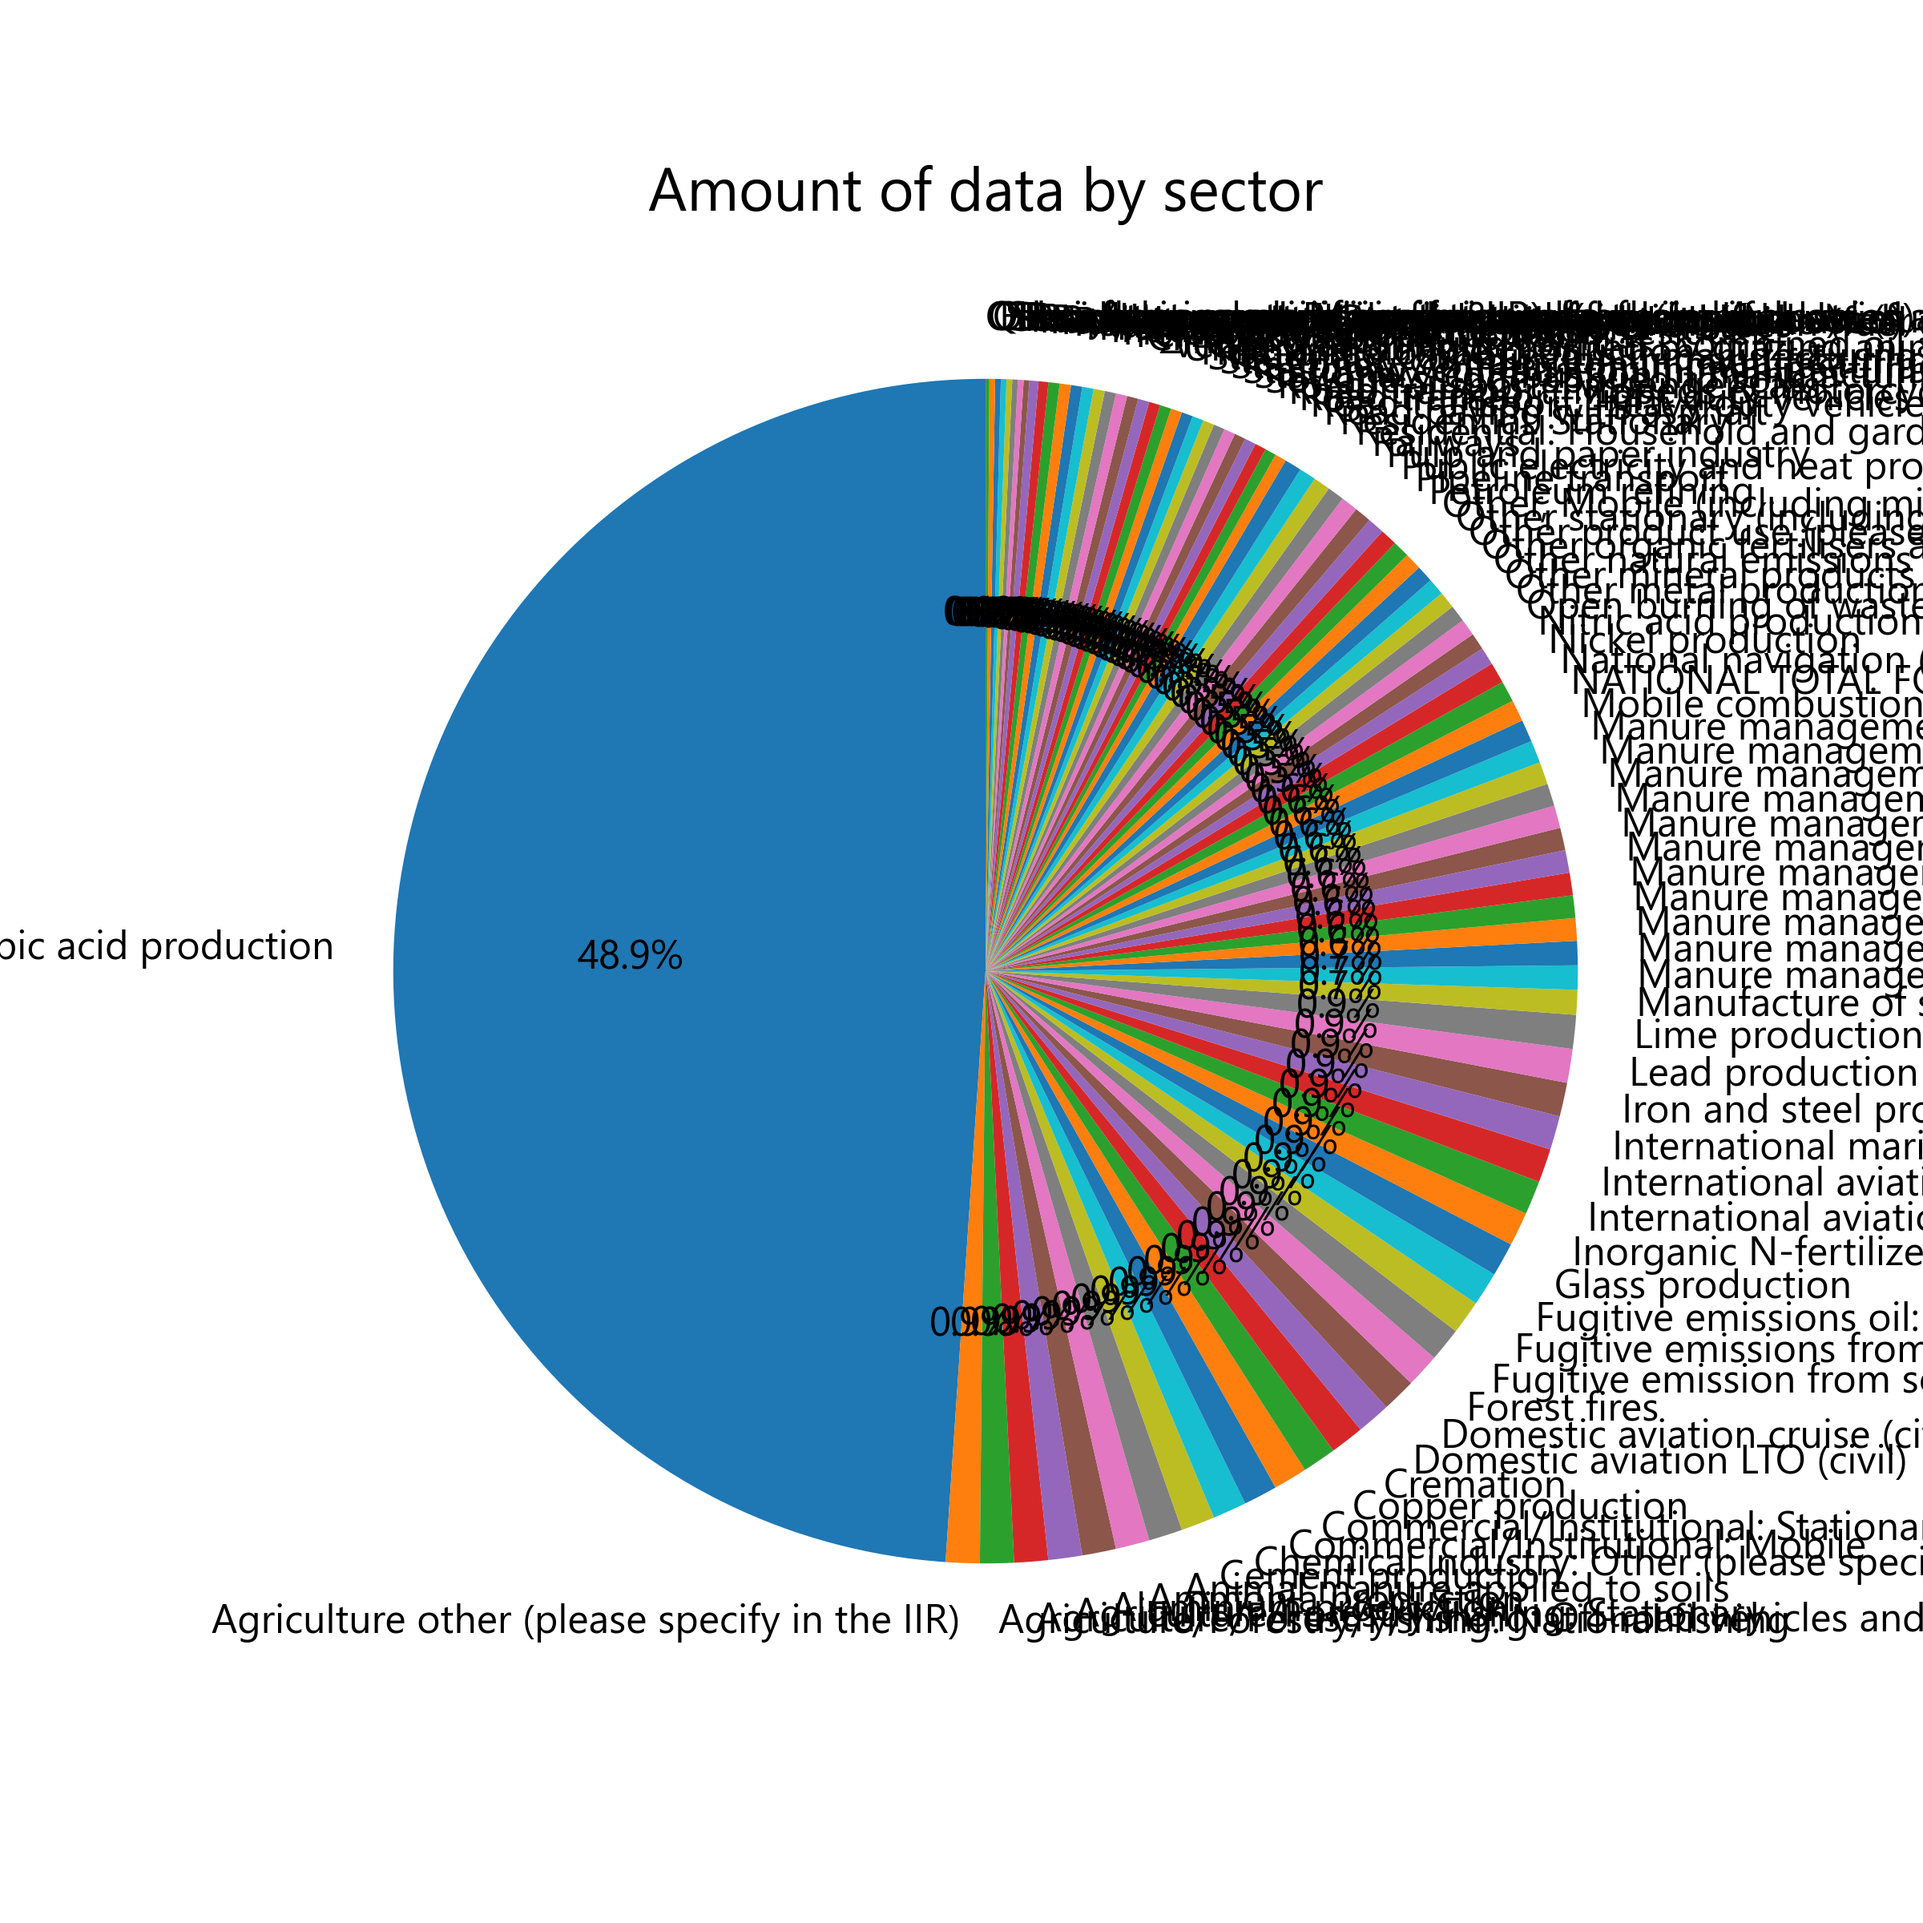
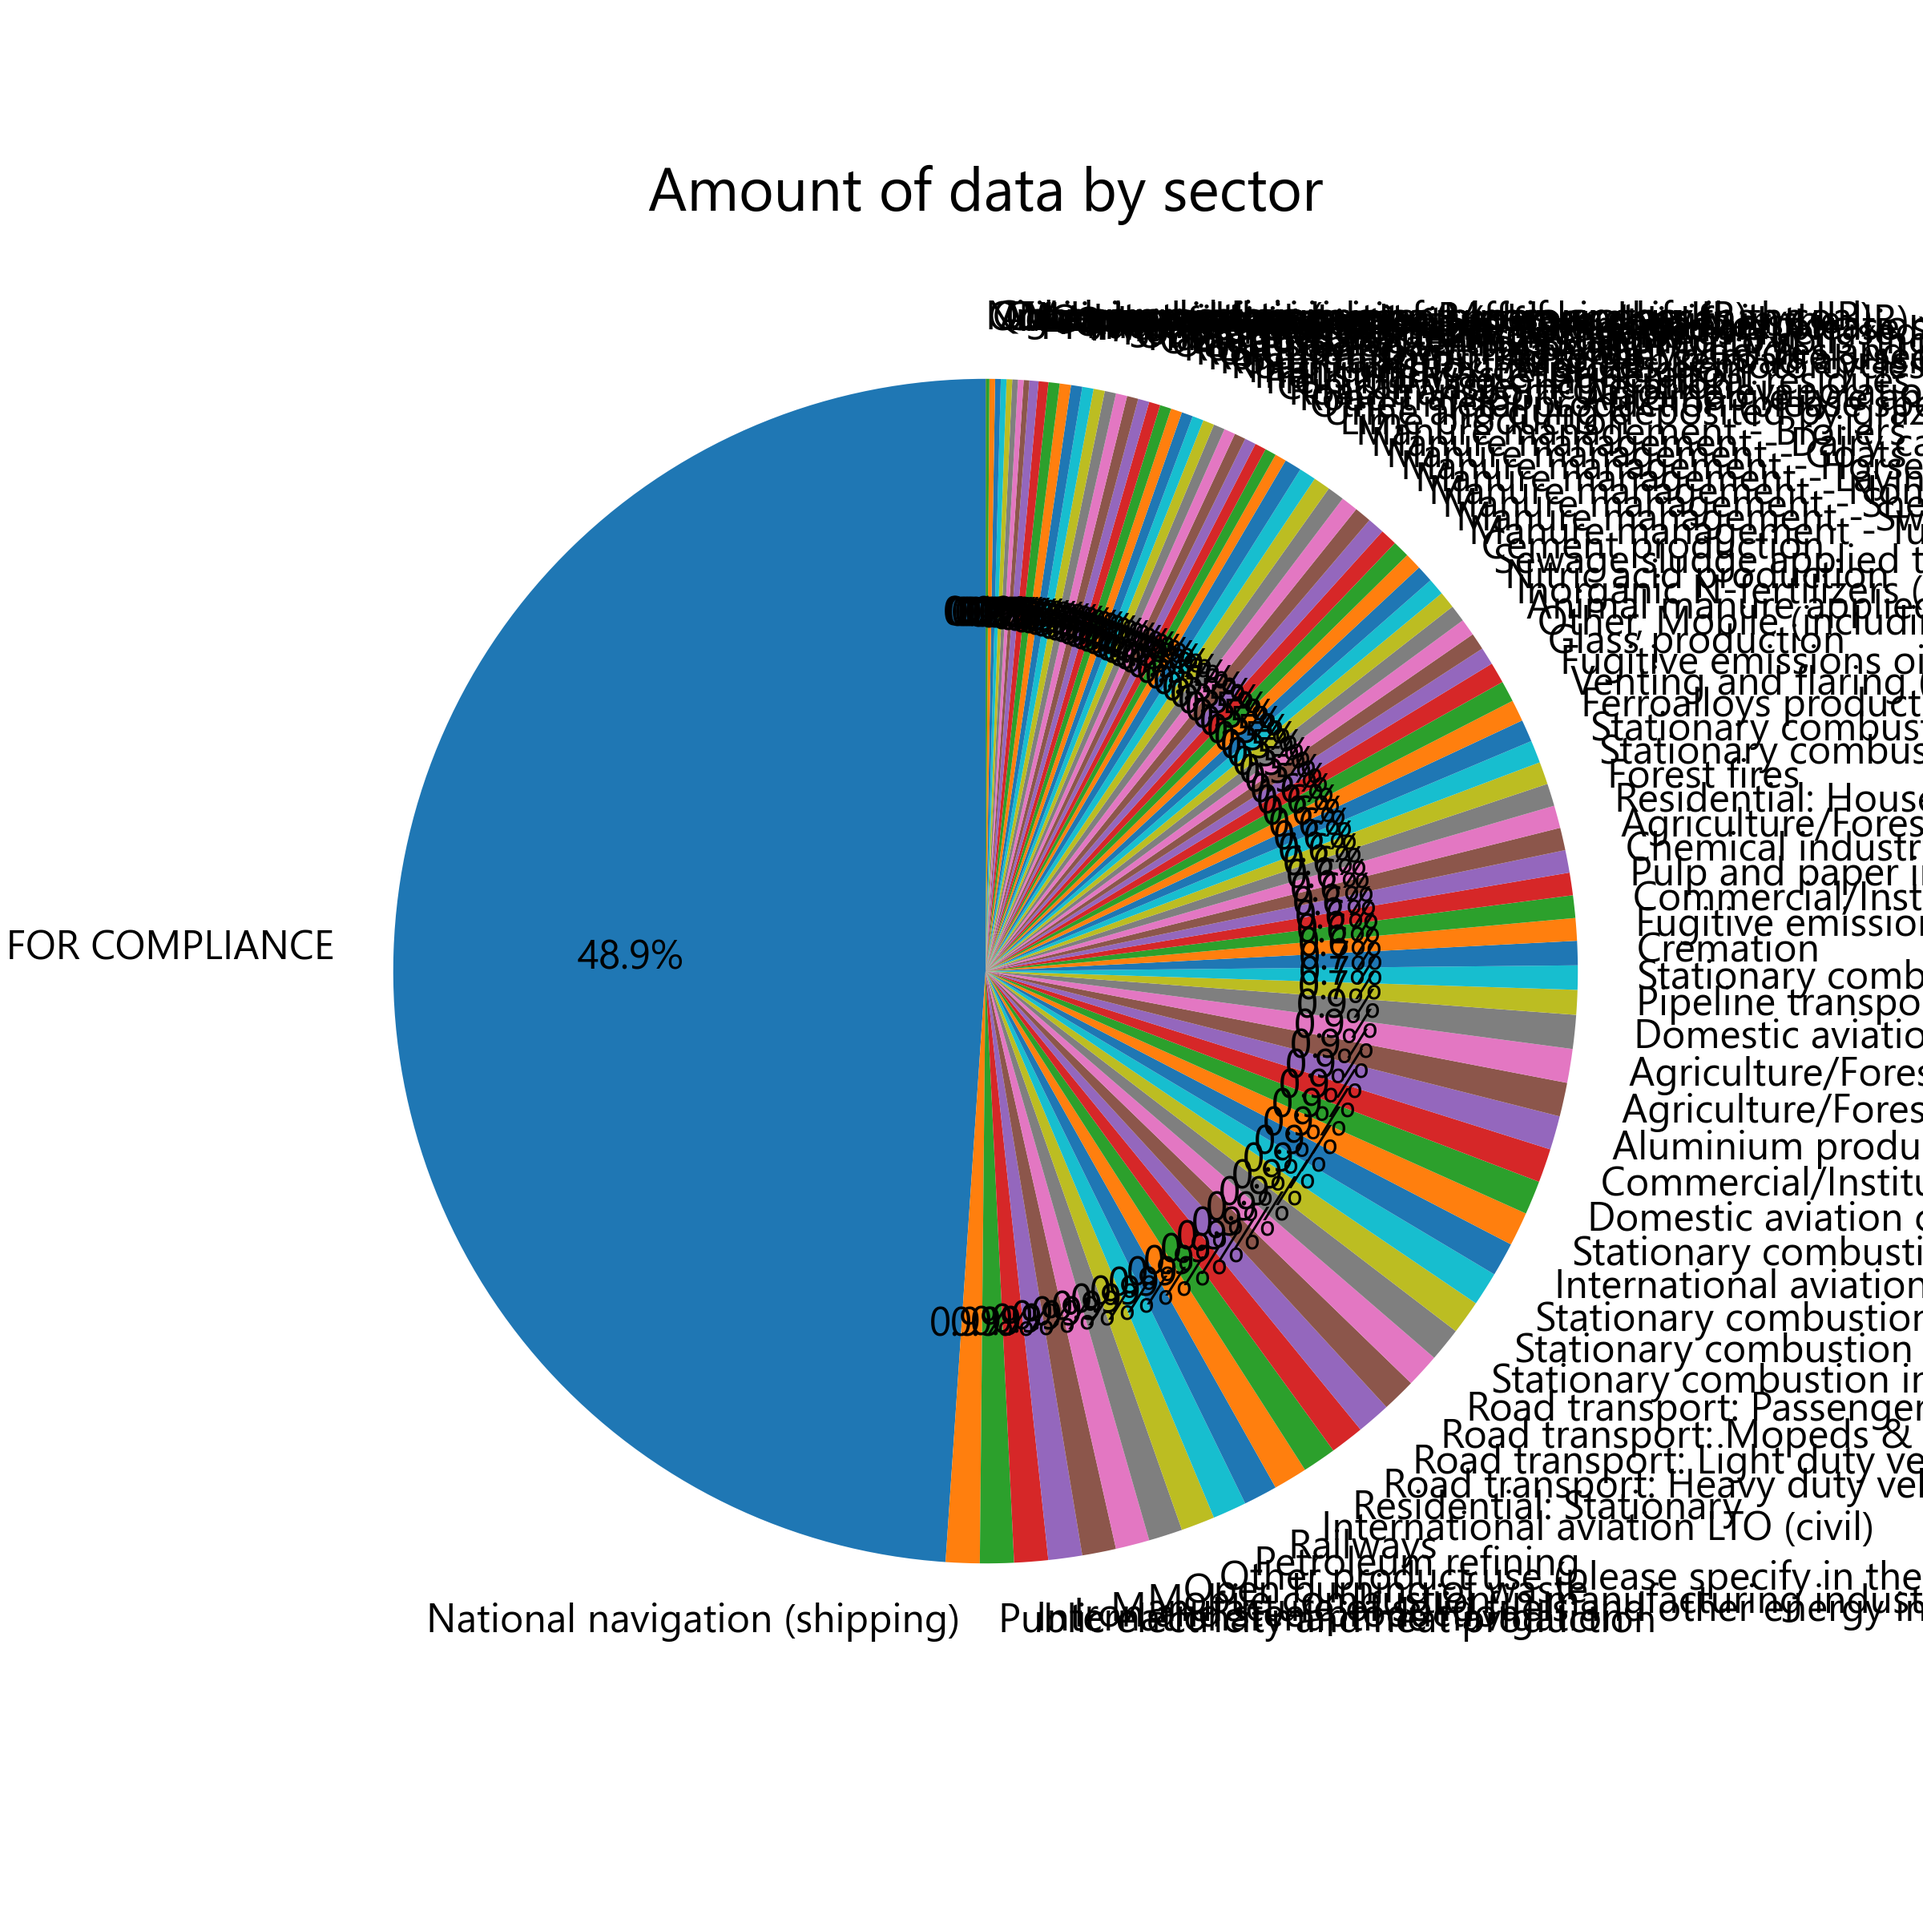
new plots and other changes

diff --git a/cleaning_code/Cleaned_Data_Set_GDP_and_Population.py b/cleaning_code/Cleaned_Data_Set_GDP_and_Population.py
@@ -3,33 +3,23 @@
 #This file is for cleaning and merging GDP and Population datasets
 # Author: dominiwm@stud.ntnu.no
 # Date: 15.10.2025
-#%%
+
+#%% 
+# Importing libraries
 import pandas as pd
-#%%
 import matplotlib.pyplot as plt
+
+#%%
 # Import GDP & Population dataset
-#%%
-df_Population = pd.read_excel(
-    r"C:\Users\domin\.Python Course\Population total.xlsx",
-    sheet_name="Data",
-    skiprows=3)
-#%%
-df_GDP = pd.read_excel(
-    r"C:\Users\domin\.Python Course\GDP_absolute.xlsx",
-    sheet_name="Data",
-    skiprows=)
+df_Population = pd.read_excel(r"C:\Users\domin\.Python Course\Population total.xlsx", sheet_name="Data", skiprows=3)
+df_GDP = pd.read_excel(r"C:\Users\domin\.Python Course\GDP_absolute.xlsx", sheet_name="Data", skiprows=3)
 # %%
 # Explore data structure
 df_Population.head()
-#%%
 df_GDP.head()
-# %%
 df_Population.shape
-#%%
 df_GDP.shape
-# %%
 df_Population.describe()
-#%%
 df_GDP.describe()
 # %%
 # Countries of interest
@@ -43,35 +33,78 @@ gdp_keep = ["Country Name"] + [y for y in years if y in df_GDP.columns]
 # Long format tables
 p = df_Population[pop_keep].melt("Country Name", var_name="Year", value_name="Population")
 g = df_GDP[gdp_keep].melt("Country Name", var_name="Year", value_name="GDP_USD")
+p
+# %%
+g
 # %%
 # Merge + per-capita
 res = pd.merge(g, p, on=["Country Name", "Year"])
 res["gdp_per_capita"] = res["GDP_USD"] / res["Population"]
 res["Year"] = res["Year"].astype(int)
+res
 # %%
 countries = ["Greece", "Sweden", "Germany"]
-res = (res[res["Country Name"].isin(countries)]
-       [["Country Name", "Year", "Population", "GDP_USD", "gdp_per_capita"]]
-       .sort_values(["Country Name", "Year"])
-       .reset_index(drop=True))
-
-res.head()
+res = (res[res["Country Name"].isin(countries)] [["Country Name", "Year", "Population", "GDP_USD", "gdp_per_capita"]].sort_values(["Country Name", "Year"]).reset_index(drop=True))
+res
 # %%
-# Save to laptop
+# Save
 save_path = r"C:\Users\domin\.Python Course\cleaned gdp_population_gdp per capita dataset.csv"
 res.to_csv(save_path, index=False)
-print("Saved to:", save_path)
 
-# %%
-# Basic plots
-for col, title, ylabel in [
-    ("gdp_per_capita", "GDP per capita (1990+)", "US$ per person"),
-    ("GDP_USD",        "GDP (current US$) (1990+)", "US$"),
-    ("Population",     "Population (1990+)", "People"),
-]:
-    pivoted = res.pivot(index="Year", columns="Country Name", values=col)
-    ax = pivoted.plot(title=title)
-    ax.set_xlabel("Year")
-    ax.set_ylabel(ylabel)
-    plt.show()
+# %% 
+# Plot for GDP per capita 1990+
+pivoted_gdppc = res.pivot(index="Year", columns="Country Name", values="gdp_per_capita")
+
+plt.figure(figsize=(10, 6))
+plt.plot(pivoted_gdppc.index, pivoted_gdppc['Germany'], label='Germany', color='tab:blue', linewidth=2)
+plt.plot(pivoted_gdppc.index, pivoted_gdppc['Sweden'], label='Sweden', color='tab:green', linewidth=2)
+plt.plot(pivoted_gdppc.index, pivoted_gdppc['Greece'], label='Greece', color='tab:red', linewidth=2)
+
+plt.title("GDP per capita (1990+)", fontsize=18, fontfamily="Segoe UI")
+plt.xlabel("Year", fontsize=16, fontfamily="Segoe UI")
+plt.ylabel("US$ per person", fontsize=16, fontfamily="Segoe UI")
+plt.grid(True)
+plt.legend(fontsize=12, prop={"family": "Segoe UI"})
+plt.tight_layout()
+plt.savefig("../ploting_code/Plots/GDP_per_capita.png", dpi=300)
+plt.show()
+
+
+# %% 
+# Plot GDP absolute Current US$
+pivoted_gdp = res.pivot(index="Year", columns="Country Name", values="GDP_USD")
+
+plt.figure(figsize=(10, 6))
+plt.plot(pivoted_gdp.index, pivoted_gdp['Germany'], label='Germany', color='tab:blue', linewidth=2)
+plt.plot(pivoted_gdp.index, pivoted_gdp['Sweden'], label='Sweden', color='tab:green', linewidth=2)
+plt.plot(pivoted_gdp.index, pivoted_gdp['Greece'], label='Greece', color='tab:red', linewidth=2)
+
+plt.title("GDP (current US$) (1990+)", fontsize=18, fontfamily="Segoe UI")
+plt.xlabel("Year", fontsize=16, fontfamily="Segoe UI")
+plt.ylabel("US$", fontsize=16, fontfamily="Segoe UI")
+plt.grid(True)
+plt.legend(fontsize=12, prop={"family": "Segoe UI"})
+plt.tight_layout()
+plt.savefig("../ploting_code/Plots/GDP_absolute.png", dpi=300)
+plt.show()
+
+
+# %% 
+# Plot Population 1990+
+pivoted_pop = res.pivot(index="Year", columns="Country Name", values="Population")
+
+plt.figure(figsize=(10, 6))
+plt.plot(pivoted_pop.index, pivoted_pop['Germany'], label='Germany', color='tab:blue', linewidth=2)
+plt.plot(pivoted_pop.index, pivoted_pop['Sweden'], label='Sweden', color='tab:green', linewidth=2)
+plt.plot(pivoted_pop.index, pivoted_pop['Greece'], label='Greece', color='tab:red', linewidth=2)
+
+plt.title("Population (1990+)", fontsize=18, fontfamily="Segoe UI")
+plt.xlabel("Year", fontsize=16, fontfamily="Segoe UI")
+plt.ylabel("People", fontsize=16, fontfamily="Segoe UI")
+plt.grid(True)
+plt.legend(fontsize=12, prop={"family": "Segoe UI"})
+plt.tight_layout()
+plt.savefig("../ploting_code/Plots/Population.png", dpi=300)
+plt.show()
+
 # %%

diff --git a/ploting_code/sector/dict_sector.py b/ploting_code/sector/dict_sector.py
@@ -3,11 +3,11 @@
 #This file creating a dictionnaire that link the scetor to bigger sector to understand the economy
 # Author: julietlg@stud.ntnu.no
 # Date: 16.10.2025
-# changing the code making a plott for emissions per sector
+# changing the code making a plott for emissions per sector and changing the font
 # Author: dominiwm@stud.ntnu.no
 # Date: 22.10.2025
 
-#%% importing library
+#%% importing libraries
 import pandas as pd
 import matplotlib.pyplot as plt
 
@@ -23,9 +23,9 @@ df_pol["supersectorName"] = df_pol["sectorName"].map(dict_sectors)
 
 #%% Create a pie chart
 data_per_supersectors = df_pol["supersectorName"].value_counts()
-labels_supersectors = df_pol["supersectorName"].unique()
+labels_supersectors = data_per_supersectors.index
 data_per_sectors = df_pol["sectorName"].value_counts()
-labels_sectors = df_pol["sectorName"].unique()
+labels_sectors = data_per_sectors.index  
 
 # Pie chart for super sectors
 plt.figure(figsize=(8, 8))
@@ -41,17 +41,23 @@ plt.title("Amount of data by sector", fontsize=18, fontfamily="Segoe UI")
 plt.savefig("../ploting_code/Plots/Pie_Sectors.png", dpi=300)
 plt.show()
 
-#%% Absolute emissions per sector
-emissions_per_sector = df_pol.groupby("sectorName")["value"].sum().sort_values(ascending=False)
+#%% Absolute emissions per supersector
+emissions_per_supersector = df_pol.groupby("supersectorName")["value"].sum().sort_values(ascending=False)
 
-plt.figure(figsize=(12, 6))
-plt.bar(emissions_per_sector.index, emissions_per_sector.values, color='tab:blue')
-plt.xticks(rotation=90)
-plt.xlabel("Sector", fontsize=14, fontfamily="Segoe UI")
+plt.figure(figsize=(8, 6))
+bars = plt.bar(emissions_per_supersector.index, emissions_per_supersector.values, color=['tab:blue', 'tab:orange', 'tab:green', 'tab:red'])
+
+plt.xlabel("Supersector", fontsize=14, fontfamily="Segoe UI")
 plt.ylabel("Total Emissions (kt)", fontsize=14, fontfamily="Segoe UI")
-plt.title("Total Emissions by Sector", fontsize=16, fontfamily="Segoe UI")
+plt.title("Total Emissions by Supersector", fontsize=18, fontfamily="Segoe UI")
+
+plt.text(0, bars[0].get_height(), f'{bars[0].get_height():,.0f}', ha='center', va='bottom', fontfamily="Segoe UI", fontsize=12)
+plt.text(1, bars[1].get_height(), f'{bars[1].get_height():,.0f}', ha='center', va='bottom', fontfamily="Segoe UI", fontsize=12)
+plt.text(2, bars[2].get_height(), f'{bars[2].get_height():,.0f}', ha='center', va='bottom', fontfamily="Segoe UI", fontsize=12)
+plt.text(3, bars[3].get_height(), f'{bars[3].get_height():,.0f}', ha='center', va='bottom', fontfamily="Segoe UI", fontsize=12)
+
 plt.tight_layout()
-plt.savefig("../ploting_code/Plots/Total_Emissions_by_Sector.png", dpi=300)
+plt.savefig("../ploting_code/Plots/Total_Emissions_by_Supersector.png", dpi=300)
 plt.show()
 
 # %%

diff --git a/ploting_code/ploting_code.py b/ploting_code/ploting_code.py
@@ -3,11 +3,11 @@
 #This file is to plot data from the grouped_data
 # Author: julietlg@stud.ntnu.no
 # Date: 21.10.2025
-# changing the code making seperate plots
+# changing the code making seperate plots and changing the font
 # Author: dominiwm@stud.ntnu.no
 # Date: 22.10.2025
 
-#%% Importing library
+#%% Importing libraries
 import pandas as pd
 import matplotlib.pyplot as plt
 
